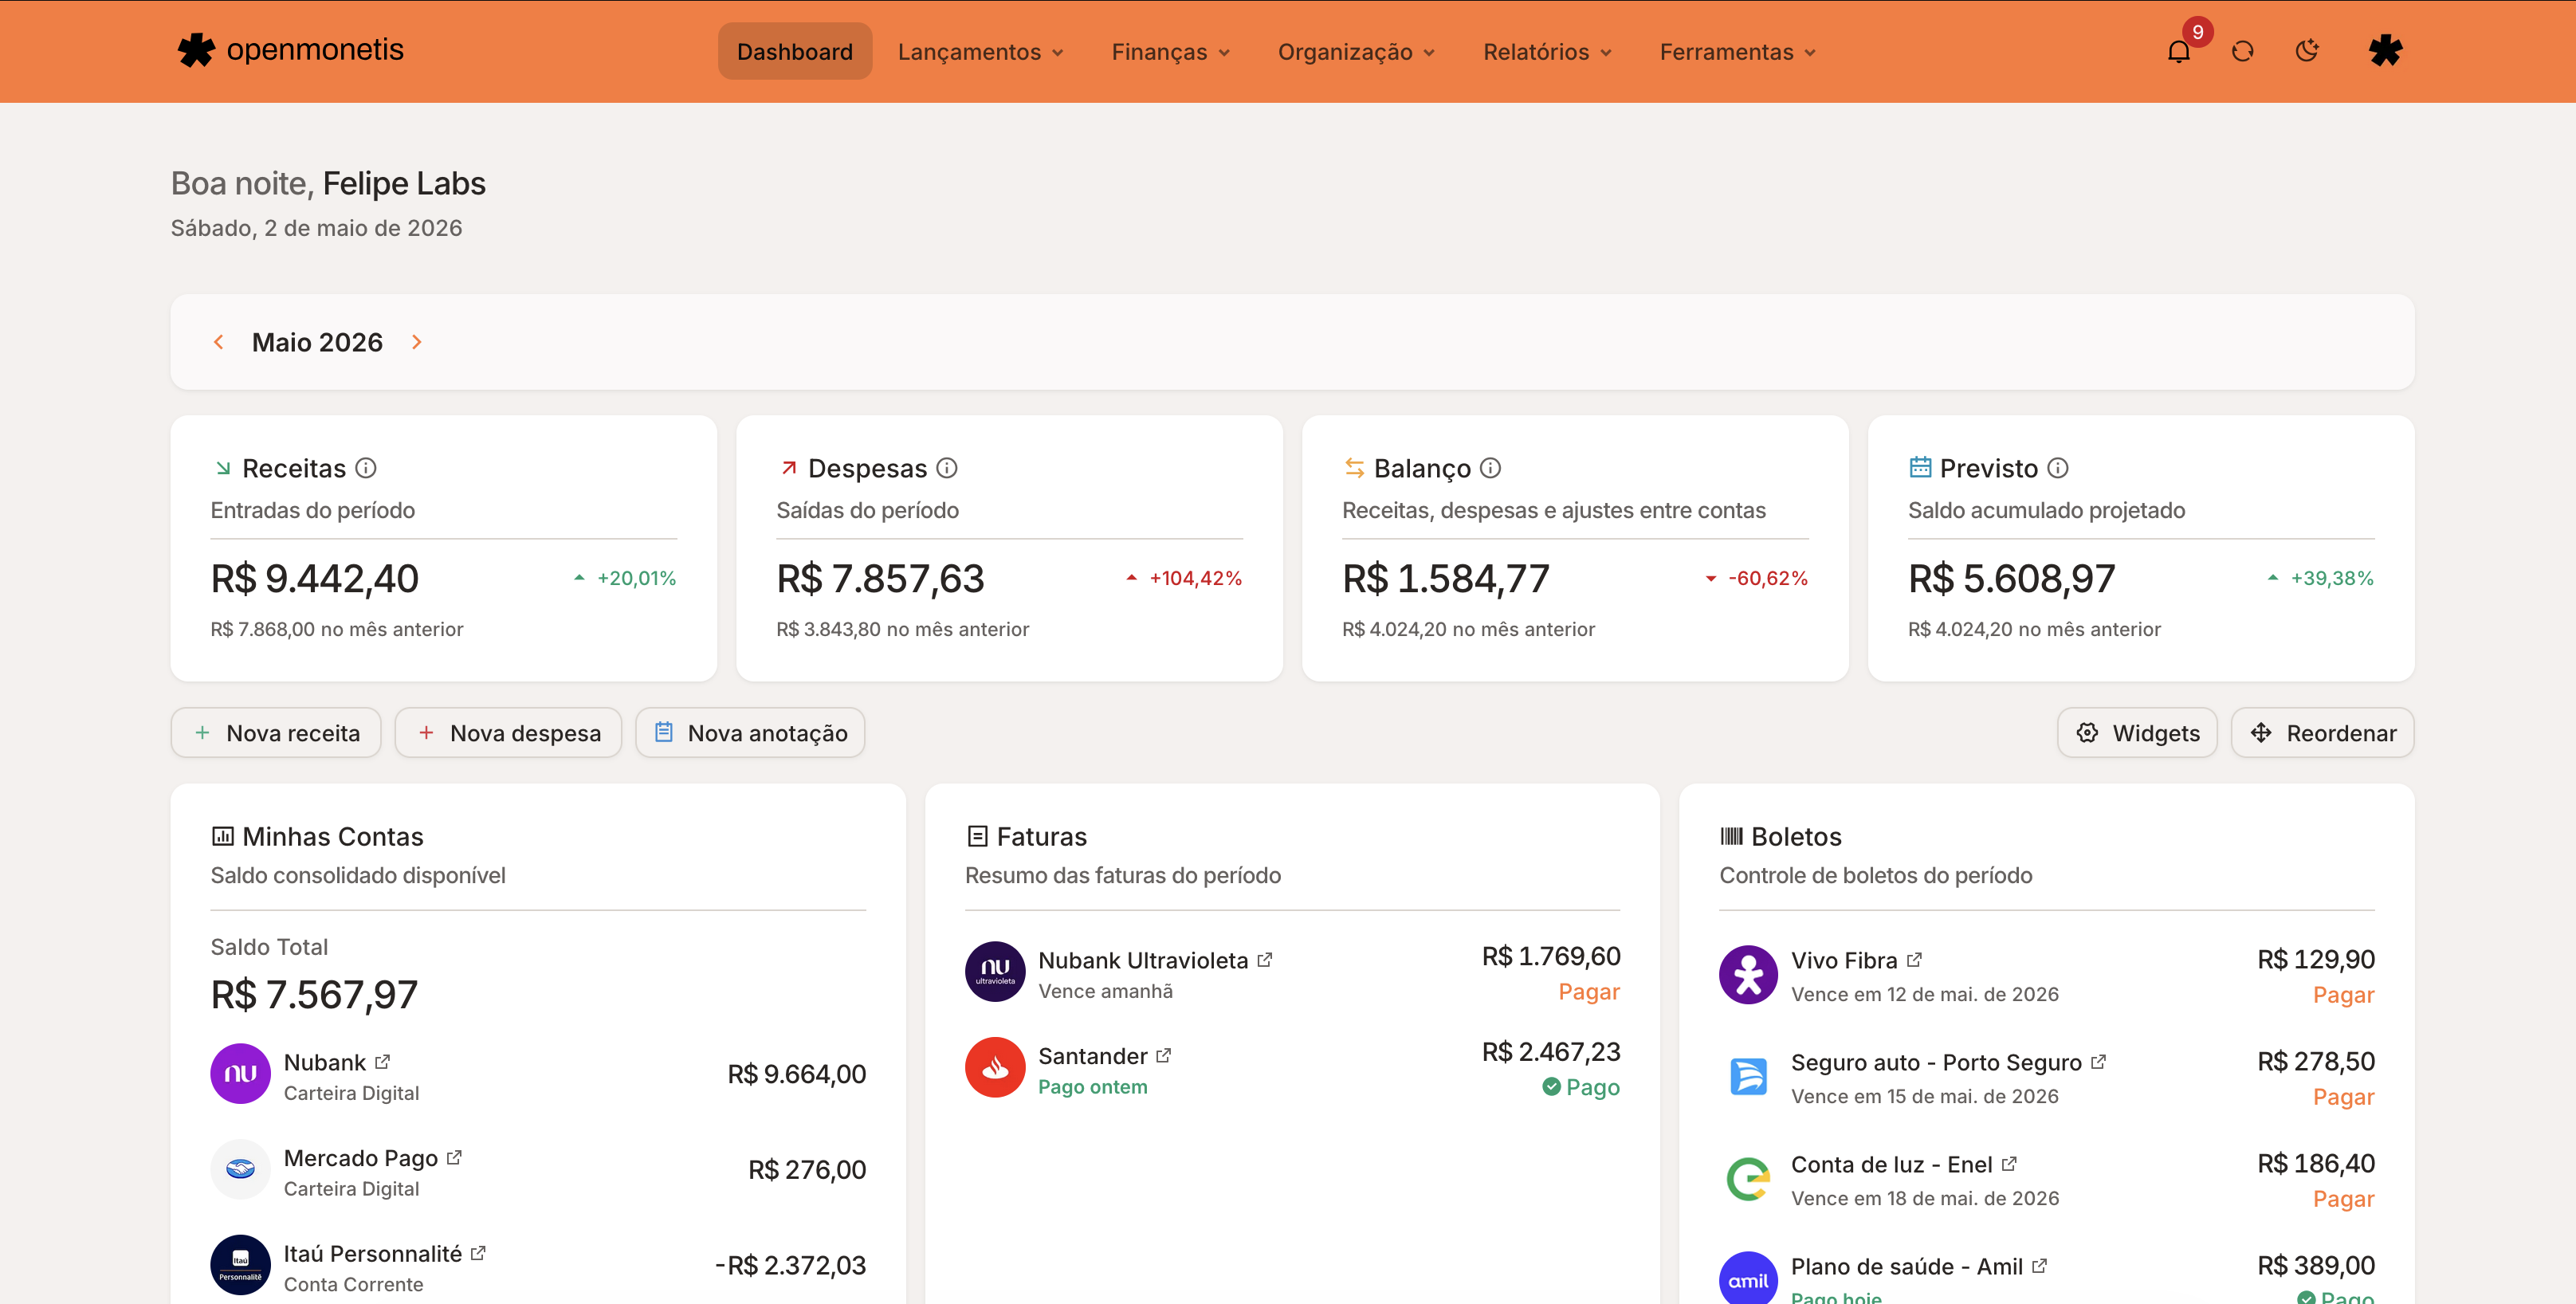
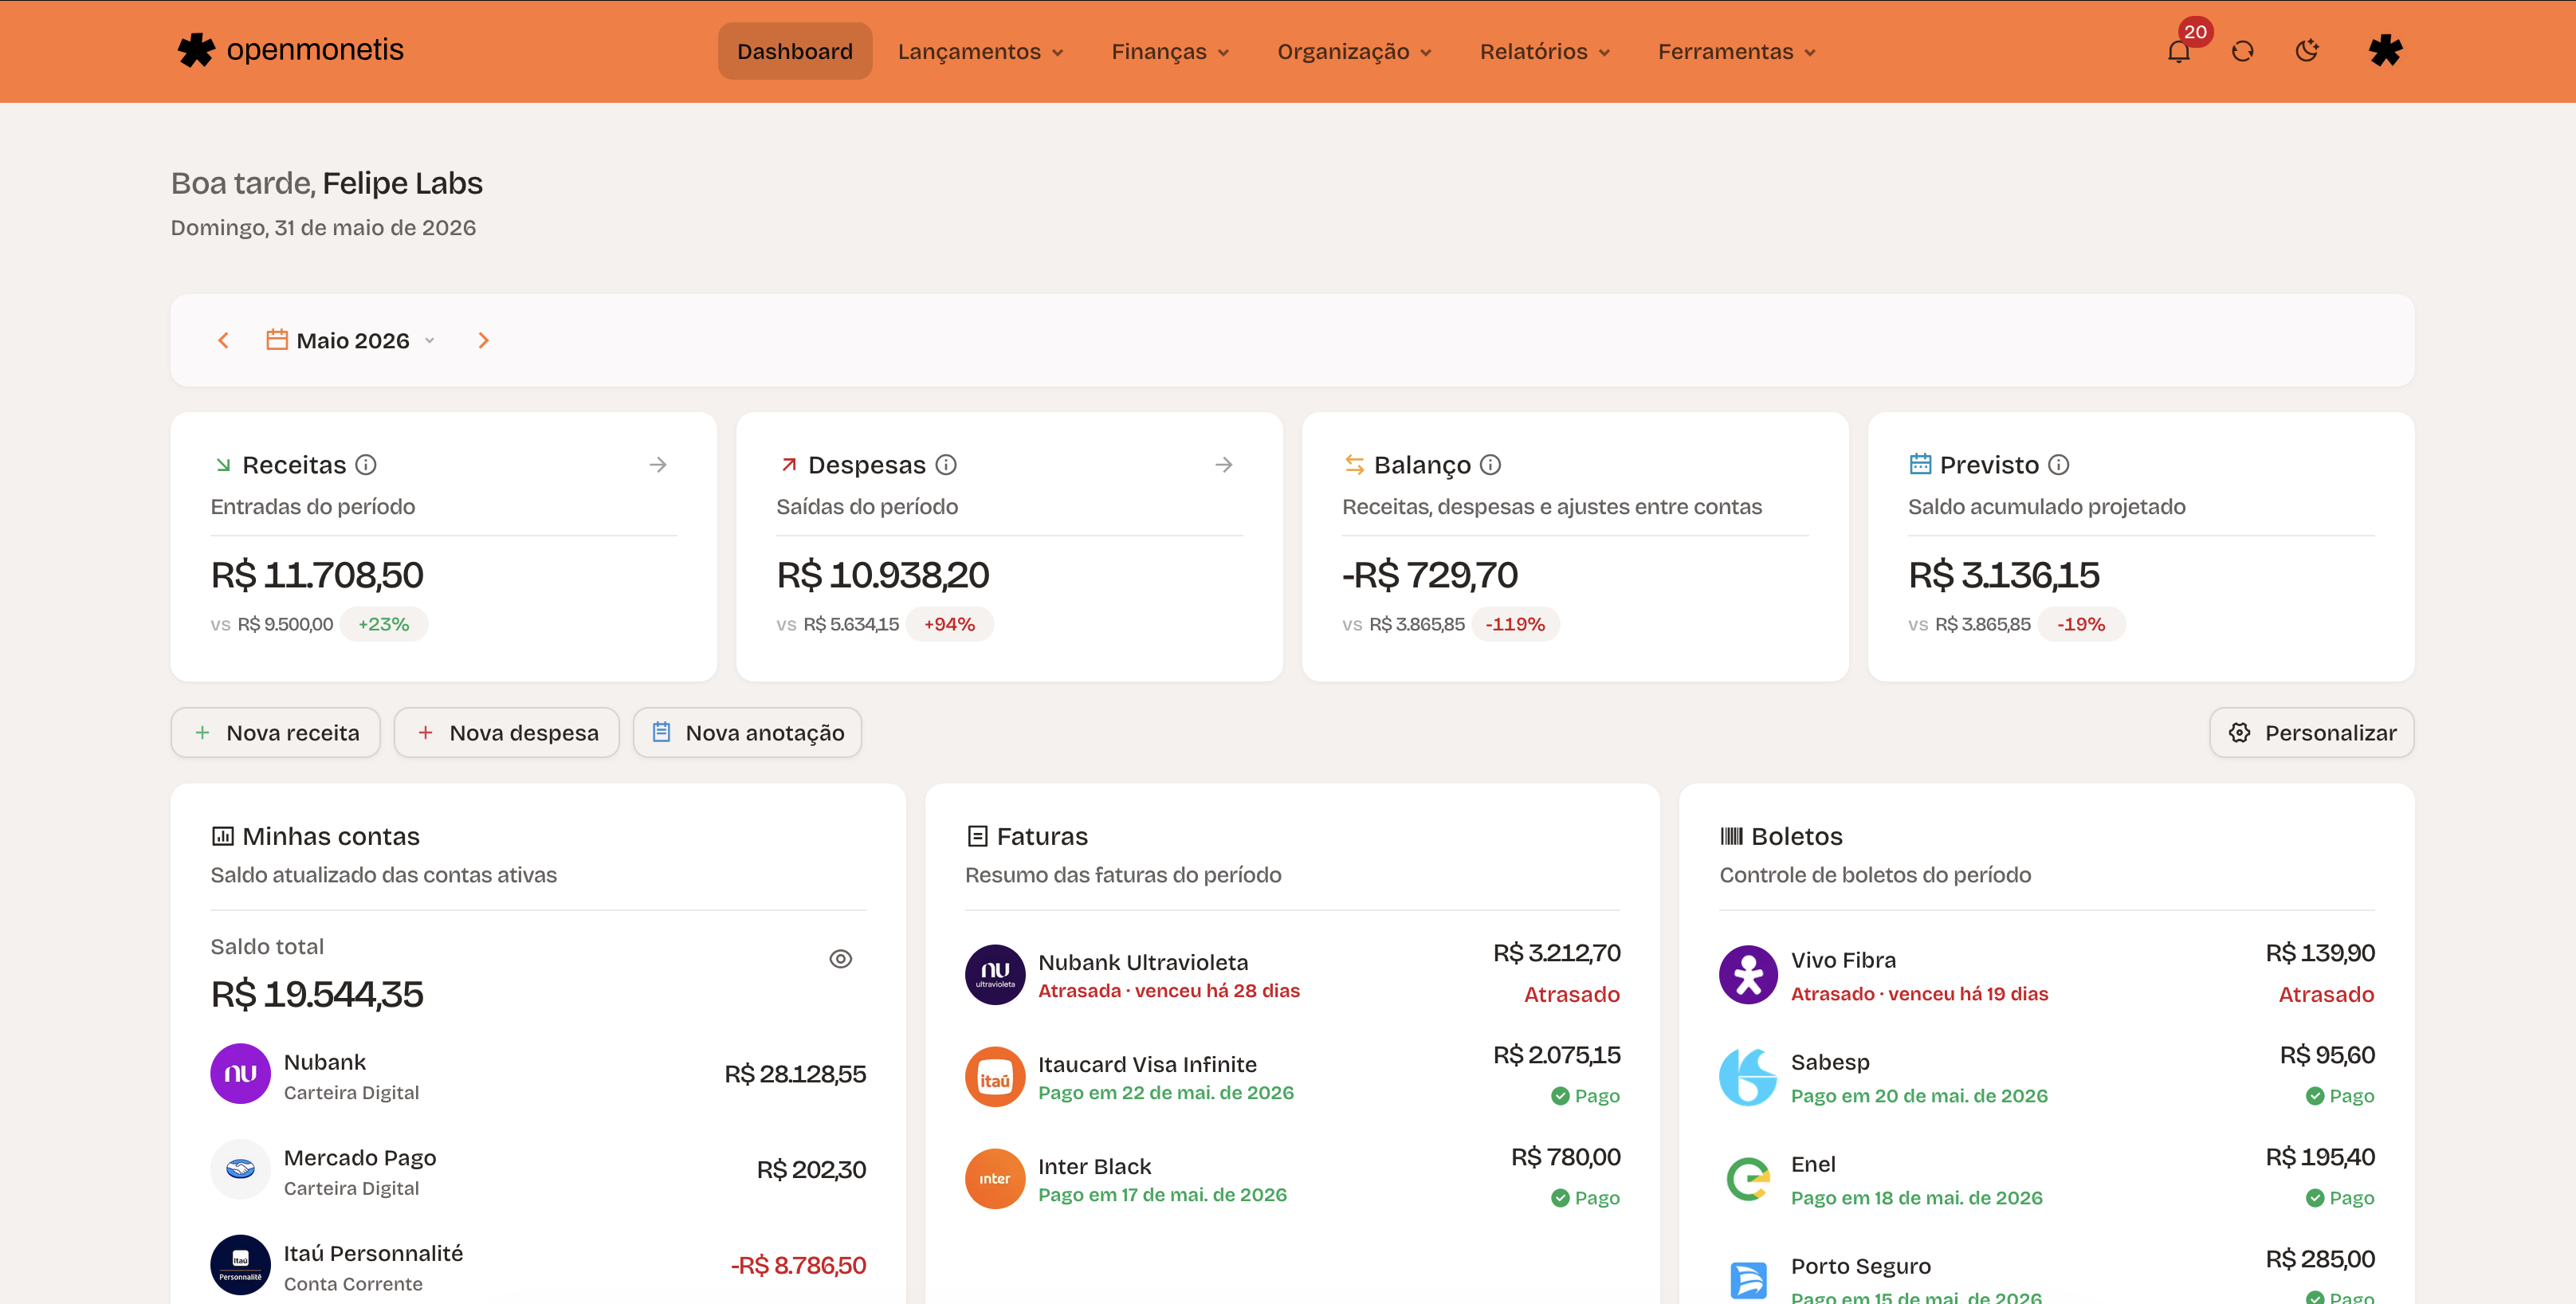
chore(release): prepara versao 2.7.2

diff --git a/src/app/(landing-page)/layout.tsx b/src/app/(landing-page)/layout.tsx
@@ -38,7 +38,7 @@ export const metadata: Metadata = {
 		description: DESCRIPTION,
 		images: [
 			{
-				url: "/images/dashboard-preview-light.webp",
+				url: "/images/dashboard-preview-light.png",
 				width: 1920,
 				height: 1080,
 				alt: "OpenMonetis — Dashboard de finanças pessoais",
@@ -49,7 +49,7 @@ export const metadata: Metadata = {
 		card: "summary_large_image",
 		title: TITLE,
 		description: DESCRIPTION,
-		images: ["/images/dashboard-preview-light.webp"],
+		images: ["/images/dashboard-preview-light.png"],
 	},
 	robots: {
 		index: true,

diff --git a/src/features/landing/images.ts b/src/features/landing/images.ts
@@ -4,8 +4,8 @@ export const landingImages = {
 		dark: "/images/dashboard-preview-dark.png",
 	},
 	pwa: {
-		light: "/images/pwa-preview-light.webp",
-		dark: "/images/pwa-preview-dark.webp",
+		light: "/images/pwa-preview-light.png",
+		dark: "/images/pwa-preview-dark.png",
 	},
 	companion: {
 		light: "/images/companion-preview-light.webp",

diff --git a/CHANGELOG.md b/CHANGELOG.md
@@ -5,6 +5,14 @@ Todas as mudanças notáveis deste projeto serão documentadas neste arquivo.
 O formato é baseado em [Keep a Changelog](https://keepachangelog.com/pt-BR/1.1.0/),
 e este projeto adere ao [Versionamento Semântico](https://semver.org/lang/pt-BR/).
 
+## [2.7.2] - 2026-05-31
+
+Esta versão atualiza as imagens de apresentação do OpenMonetis na landing page e no compartilhamento em redes sociais.
+
+### Alterado
+- Landing page: atualizadas as imagens de preview do dashboard e da versão PWA.
+- Compartilhamento: ajustada a imagem usada nos metadados sociais da landing page.
+
 ## [2.7.1] - 2026-05-30
 
 Esta versão melhora a clareza dos fluxos de lançamento e a experiência do dashboard. Boletos de receita agora diferenciam pagamentos de recebimentos, a navegação mensal ficou mais direta e o painel ganhou atalhos mais úteis com personalização simplificada.

diff --git a/README.md b/README.md
@@ -8,7 +8,7 @@
 
 > **⚠️ Não há versão online hospedada.** Você precisa clonar o repositório e rodar localmente ou no seu próprio servidor.
 
-[![Version](https://img.shields.io/badge/version-2.7.1-blue?style=flat-square)](CHANGELOG.md)
+[![Version](https://img.shields.io/badge/version-2.7.2-blue?style=flat-square)](CHANGELOG.md)
 [![Next.js](https://img.shields.io/badge/Next.js-black?style=flat-square&logo=next.js)](https://nextjs.org/)
 [![TypeScript](https://img.shields.io/badge/TypeScript-blue?style=flat-square&logo=typescript)](https://www.typescriptlang.org/)
 [![PostgreSQL](https://img.shields.io/badge/PostgreSQL-blue?style=flat-square&logo=postgresql)](https://www.postgresql.org/)